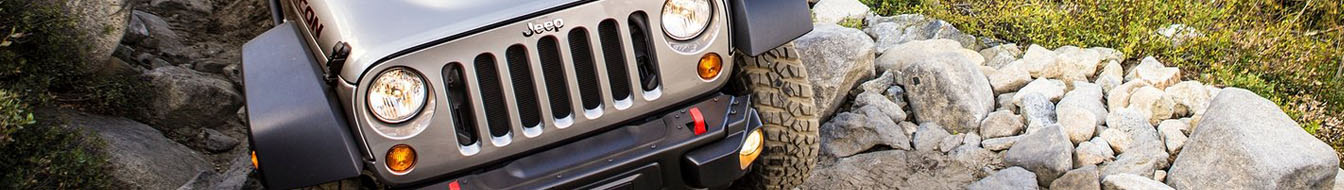
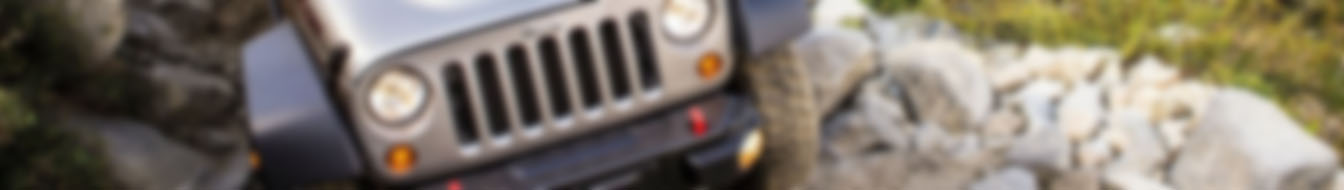
nightly before presentation
Blur top banner images (all 15 items)
Fix APAC News box
Global News- from Scoop

Life- Useful links box :

diff --git a/wp-content/themes/apacportal/style.css b/wp-content/themes/apacportal/style.css
@@ -20,12 +20,12 @@ a:visited{
 	color: #003F7D;
 }
 
-input{
-	box-sizing: content-box;
+td, th{
+	padding:3px 5px;
 }
 
-li{
-	line-height: 1.5;
+input{
+	box-sizing: content-box;
 }
 
 button,
@@ -92,7 +92,7 @@ body, h1, h2, h3, h4, h5{
 .site-header .wrapper{
 	height: 170px;
 	min-height: 150px;
-	background: rgba(255, 255, 255, 0.5);
+	background: rgba(255, 255, 255, 0.7);
 	box-shadow: 2px 2px 20px #888;
 }
 
@@ -186,7 +186,7 @@ body, h1, h2, h3, h4, h5{
 	box-shadow: 2px 2px 5px #CCC;
 }
 
-.box>header{
+.box>header, .box>.header{
 	padding:8px 8px;
 	color: #003F7D;
 	background: #EFF4F7 url('/wp-content/themes/apacportal/images/navbg.png') repeat-x;

diff --git a/wp-content/themes/apacportal/home.php b/wp-content/themes/apacportal/home.php
@@ -11,9 +11,9 @@
 						<span class="more-link"><a href="/category/apac-news">More</a></span>
 						APAC News
 					</header>
-					<div class="content" style="height:135px; padding: 0;">
-						<div class="slider" id="slider192" style="width: 530px; height:135px; position: absolute;"> 
-							<div class="sliderContent" style="width: 530px; height:135px">
+					<div class="content" style="min-height: 0; height:135px; padding: 0;">
+						<div class="slider" id="slider192" style="width: 526px; height:135px; position: absolute;"> 
+							<div class="sliderContent" style="width: 526px; height:135px">
 								<?query_posts('category_name=apac-news&posts_per_page=3')?>
 								<?while(have_posts()):the_post();?>
 								<div class="item">
@@ -63,6 +63,28 @@
 						?>
 
 						<ul>
+							<li>
+								<a href="http://scoop.chrysler.com/2013/09/18/fiat-spa-earns-spot-on-sustainability-list/" title="Posted 18 September 2013 | 11:33 pm" target="_blank">
+									Fiat SpA earns spot on sustainability list										</a>
+							</li>
+							<li>
+								<a href="http://scoop.chrysler.com/2013/09/12/australian-media-get-a-taste-of-competition-in-chrysler-300-srt8-core-models/" title="Posted 13 September 2013 | 12:15 am" target="_blank">
+									Australian media get a taste of competition in Chrysler 300 SRT8 Core models										</a>
+							</li>
+							<li>
+								<a href="http://scoop.chrysler.com/2013/09/11/jeep-wrangler-polar-debuts-in-frankfurt-celebrates-winter-driving/" title="Posted 12 September 2013 | 12:04 am" target="_blank">
+									Jeep® Wrangler Polar debuts in Frankfurt										</a>
+							</li>
+							<li>
+								<a href="http://scoop.chrysler.com/2013/09/06/international-sales-rise-25-in-best-august-ever/" title="Posted 6 September 2013 | 11:05 pm" target="_blank">
+									International sales rise 25% in best August ever										</a>
+							</li>
+							<li>
+								<a href="http://scoop.chrysler.com/2013/09/04/jeep-brand-to-debut-wrangler-polar-edition-at-frankfurt/" title="Posted 4 September 2013 | 10:26 pm" target="_blank">
+									Jeep® brand to debut Wrangler Polar Edition at Frankfurt										</a>
+							</li>
+						</ul>						
+<!--						<ul>
 							<?php if ( $maxitems == 0 ) : ?>
 								<li><?php _e( 'No items', 'my-text-domain' ); ?></li>
 							<?php else : ?>
@@ -77,7 +99,7 @@
 									</li>
 								<?php endforeach; ?>
 							<?php endif; ?>
-						</ul>
+						</ul>-->
 					</div>
 				</div>
 			</div>

diff --git a/wp-content/themes/apacportal/page-life.php b/wp-content/themes/apacportal/page-life.php
@@ -8,10 +8,14 @@
 			<div class="span9">
 				<div class="box">
 					<header>Quick Links
-						<span class="more-link"><a href="/category/departments/ict/">More</a></span>
 					</header>
 					<div class="content">
 						<ul>
+							<li><a href="http://www.embassyworld.com/" target="_blank">Embassies</a></li>
+							<li><a href="http://www.timeanddate.com/worldclock/dialing.html?p2=99" target="_blank">International Dialing Codes</a></li>
+							<li><a href="http://www.timeanddate.com/worldclock/" target="_blank">Time Zones</a></li>
+							<li><a href="http://www.oanda.com/currency/converter/" target="_blank">Currency Converter</a></li>
+							<li><a href="http://www.timeanddate.com/weather/" target="_blank">Weather</a></li>
 						</ul>
 					</div>
 				</div>

diff --git a/wp-content/themes/apacportal/page-ict.php b/wp-content/themes/apacportal/page-ict.php
@@ -56,11 +56,11 @@
 						<span class="more-link"><a href="/category/departments/ict/news">More</a></span>
 						News
 					</header>
-					<div class="content">
+					<div class="content" style="height: 280px; overflow-y: auto;">
 						<?query_posts('category_name=departments/ict/news&posts_per_page=1')?>
 						<?the_post()?>
 						<a href="<?the_permalink()?>"><h4><?the_title()?></h4></a>
-						<summary><?the_excerpt()?></summary></a>
+						<summary><?the_content()?></summary></a>
 					</div>
 				</div>
 				<div class="box">

diff --git a/wp-content/themes/apacportal/header.php b/wp-content/themes/apacportal/header.php
@@ -28,7 +28,7 @@
 <body <?php body_class(); ?>>
 	<div id="page" class="hfeed site">
 		<header id="masthead" class="site-header" role="banner">
-			<div class="banner" style="background-image: url('<?=get_stylesheet_directory_uri()?>/images/headerbg_<?=floor(rand(0,14))?>')">
+			<div class="banner" style="background-image: url('<?=get_stylesheet_directory_uri()?>/images/headerbg_<?=floor(rand(0,13))?>')">
 				<div class="wrapper">
 					<div class="description-top">
 						<span class="market">

diff --git a/wp-content/themes/apacportal/page-user.php b/wp-content/themes/apacportal/page-user.php
@@ -20,14 +20,14 @@ array_walk($users, function(&$user){
 			<?get_sidebar()?>
 		</div>
 		<div class="span9">
-			<table>
-				<thead>
+			<table class="box">
+				<thead class="header">
 					<th>Name</th>
 					<th>Department</th>
 					<th>Phone</th>
 					<th>Email</th>
 				</thead>
-				<tbody>
+				<tbody class="content">
 <?foreach($users as $user){?>
 					<tr>
 						<td><?=$user->data->meta['first_name'][0]?> <?=$user->data->meta['last_name'][0]?></td>

diff --git a/wp-content/themes/apacportal/category.php b/wp-content/themes/apacportal/category.php
@@ -43,7 +43,7 @@ get_header(); ?>
 								<? endif; ?>
 							</dt>
 							<dd>
-								<?php echo str_get_excerpt(get_the_content(),250); ?>
+								<?php the_excerpt(); ?>
 							</dd>
 						</dl>
 					</article><!-- #post -->

diff --git a/wp-content/themes/apacportal/functions.php b/wp-content/themes/apacportal/functions.php
@@ -1,5 +1,5 @@
 <?php
-add_image_size( 'home-news-slider', 528, 135, true );
+add_image_size( 'home-news-slider', 526, 135, true );
 
 function share_price(){
 	$content = file_get_contents('http://uk.finance.yahoo.com/q?s=F.MI');
